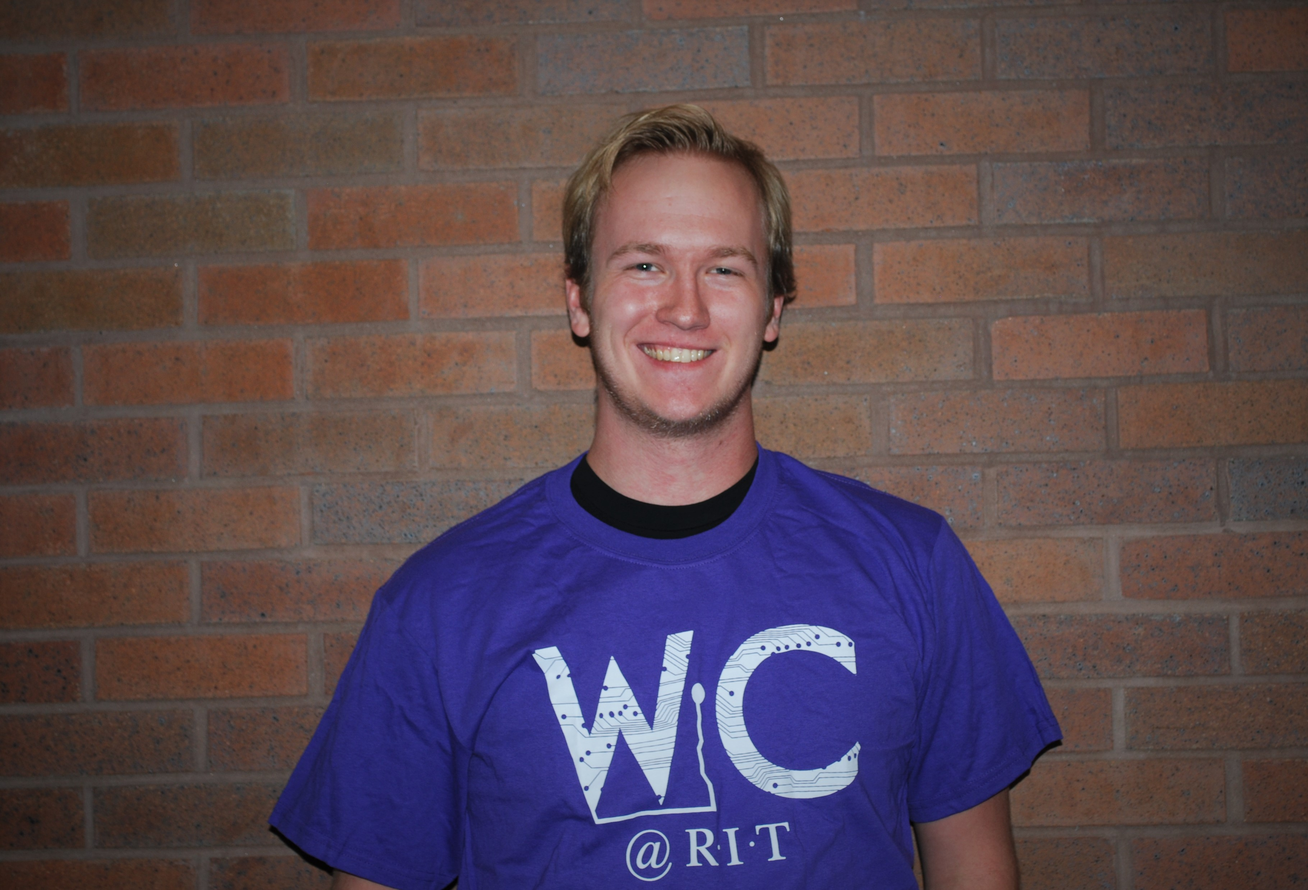
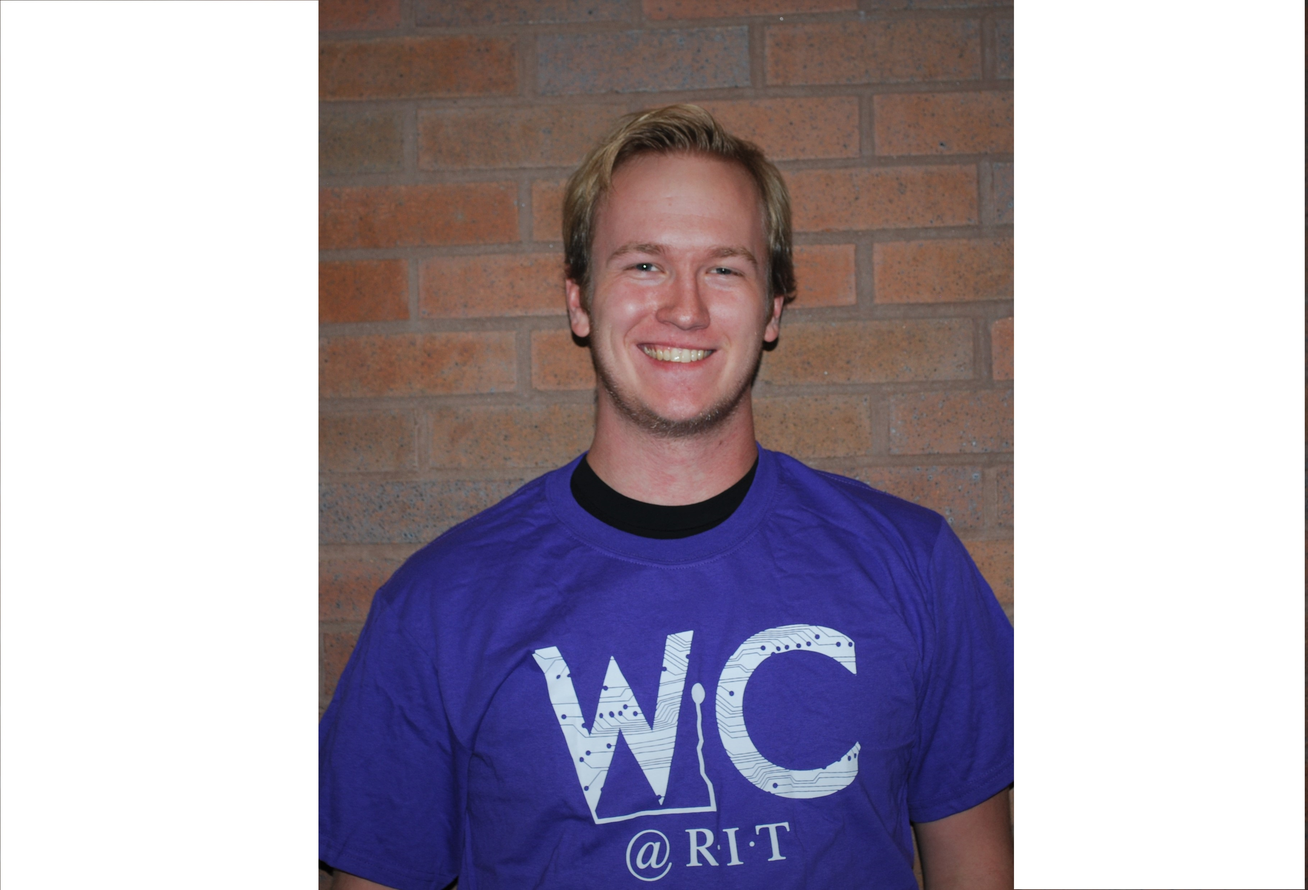
Resized and added images to the committees page
Kinda edited the original bill.jpg by accident

diff --git a/committees.php b/committees.php
@@ -31,7 +31,7 @@
                         <br><br>
                     
                         <div class="committee-head-row">
-                            <img class="committeepic" src="http://placehold.it/125x175" alt="placeholder"/>
+                            <img class="committeepic" src="img/committees/Laura%20WSized.jpg" alt="placeholder"/>
                             <p>Laura Weintraub, Public Relations Committee Head</p>
                             <p class="committeetext">The responsibilities of Public Relations committee are to update and maintain Social Media, brochures and newsletters. They are also responsible for scheduling company tech talks, info sessions and cultivating relationships with university recruiters at the RIT career fair. This committee plans and executes WiConnects, a networking event for female Golisano faculty, students and WiC Allies.</p>
                         </div>
@@ -39,7 +39,7 @@
                         <br><br>
                     
                         <div class="committee-head-row"> 
-                            <img class="committeepic" src="http://placehold.it/125x175" alt="placeholder"/>
+                            <img class="committeepic" src="img/committees/CatherineSized.jpg" alt="placeholder"/>
                             <p>Catherine Nemechek, Events</p>
                             <p class="committeetext">The responsibilities of the Events committee are to plan, advertise, and execute internal and external social events, student tech talks, outings, and combined events with other Golisano clubs.</p>
                         </div>
@@ -47,7 +47,7 @@
                         <br><br>
                     
                         <div class="committee-head-row"> 
-                            <img class="committeepic" src="http://placehold.it/125x175" alt="placeholder"/>
+                            <img class="committeepic" src="img/committees/Laura%20CSized.jpg" alt="placeholder"/>
                             <p>Laura Corrigan, Logistics</p>
                             <p class="committeetext">The responsibilities of Logistics are to assist the Director, maintain WiC calendar, send updates regarding upcoming events, maintain membership information, and maintain historical information.</p>
                         </div>
@@ -55,15 +55,23 @@
                         <br><br>
                     
                         <div class="committee-head-row">
-                            <img class="committeepic" src="http://placehold.it/125x175" alt="placeholder"/>
-                            <p>Sarah Fomchenko and Cassidy Horzempa, Outreach</p>
+                            <img class="committeepic" src="img/committees/SarahSized.jpg" alt="placeholder"/>
+                            <p>Sarah Fomchenko, Outreach</p>
+                            <p class="committeetext">Responsibilities consist of planning and executing activities for the K-12 population such as After-Hours, the Accepted Student Overnight Program, secondary school visits to campus for tours and workshops, Orientation, College & Careers, Open Houses, Kids on Campus Summer Camp, and shadow visits from prospective students.</p>
+                        </div>
+                        
+                        <br><br>
+                    
+                        <div class="committee-head-row">
+                            <img class="committeepic" src="img/committees/CassidySized.jpg" alt="placeholder"/>
+                            <p>Cassidy Horzempa, Outreach</p>
                             <p class="committeetext">Responsibilities consist of planning and executing activities for the K-12 population such as After-Hours, the Accepted Student Overnight Program, secondary school visits to campus for tours and workshops, Orientation, College & Careers, Open Houses, Kids on Campus Summer Camp, and shadow visits from prospective students.</p>
                         </div>
                     
                         <br><br>
                     
                         <div class="committee-head-row"> 
-                            <img class="committeepic" src="http://placehold.it/125x175" alt="placeholder"/>
+                            <img class="committeepic" src="img/committees/ReginaSized.jpg" alt="placeholder"/>
                             <p>Regina Locicero, Projects</p>
                             <p class="committeetext">The responsibilities of the Projects committee are to encourage students of all majors to come together and work on a project of interest that is fun and can grow students’ technical skills. The goal is to present the project at Imagine RIT.</p>
                         </div>
@@ -71,7 +79,7 @@
                         <br><br>
                     
                         <div class="committee-head-row">
-                            <img class="committeepic" src="http://placehold.it/125x175" alt="placeholder"/>
+                            <img class="committeepic" src="img/committees/SnehaSized.jpg" alt="placeholder"/>
                             <p>Sneha Vaswani, WiC Hacks</p>
                             <p class="committeetext">The responsibilities of the WiCHacks committee are to plan and execute the annual WiC Hackathon, a women only hackathon. Planning includes obtaining company sponsors and mentors, scheduling API workshops and tech talks, and planning a Newbie Track for women who haven’t coded before.</p>
                         </div>
@@ -79,7 +87,7 @@
                         <br><br>
                     
                         <div class="committee-head-row"> 
-                            <img class="committeepic" src="http://placehold.it/125x175" alt="placeholder"/>
+                            <img class="committeepic" src="img/committees/LaurenSized.jpg" alt="placeholder"/>
                             <p>Lauren DiDonato, WiC WebMaster</p>
                             <p class="committeetext">The Webmaster is responsible for updating and maintaining all three of WiC’s websites.</p>
                         </div>
@@ -87,7 +95,7 @@
                         <br><br>
                     
                         <div class="committee-head-row"> 
-                            <img class="committeepic" src="http://placehold.it/125x175" alt="placeholder"/>
+                            <img class="committeepic" src="img/committees/BillSized.jpg"/>
                             <p>Bill Krodthoff, WiC Allies</p>
                             <p class="committeetext">WiC Allies is a group of RIT and GCCIS community members committed to furthering the mission and goals of Women in Computing, for the purpose of affecting positive change and fostering a more inclusive GCCIS culture.</p>
                     </div>
